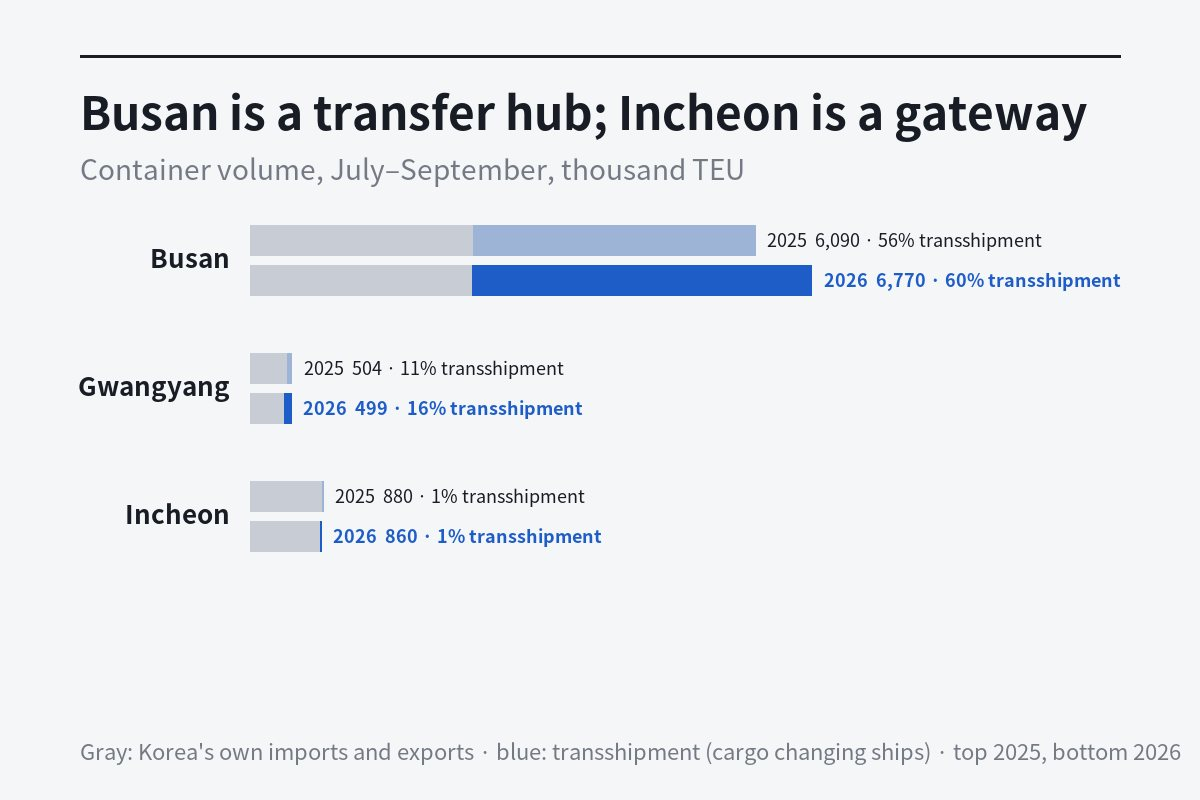
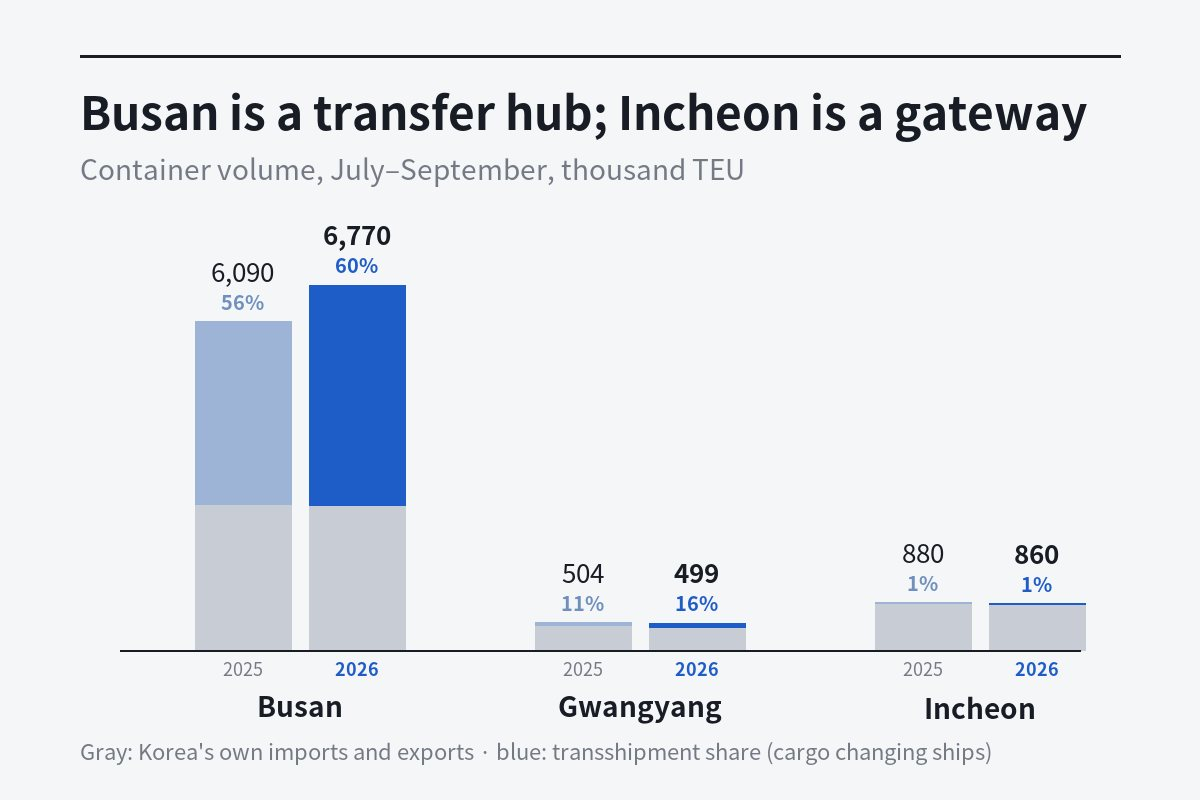
update 2026-11-21

diff --git a/en/news/korea_busan_incheon_hub.html b/en/news/korea_busan_incheon_hub.html
@@ -34,7 +34,7 @@
 <p class="dek">Of the 6.77 million TEU handled at Busan in July–September, 60% was transshipment: other countries&#x27; cargo changing ships. Incheon&#x27;s seaport mostly serves direct routes to nearby Asian ports. And by value, 55.8% of South Korea&#x27;s exports left through airports in the 12 months to October.</p>
 <div class="paper"><div><a class="by" href="../editorial.html">Written by AI</a><span class="pub"><time datetime="2026-11-20">Nov 20, 2026</time></span></div><div class="sharebar sb-top"><span class="sb-more"><button type="button" class="ic" data-more aria-expanded="false" aria-label="Share and report menu" title="More"><svg viewBox="0 0 24 24" width="20" height="20" fill="currentColor" aria-hidden="true"><circle cx="5.5" cy="12" r="1.5"/><circle cx="12" cy="12" r="1.5"/><circle cx="18.5" cy="12" r="1.5"/></svg></button><span class="sb-menu"><button type="button" data-share="native" data-u="https://holtnews.com/en/news/korea_busan_incheon_hub.html" data-t="Busan transshipment jumps 20% in Q3: how South Korea&#x27;s ports divide the work" data-ok="Link copied">Share</button><button type="button" data-share="copy" data-u="https://holtnews.com/en/news/korea_busan_incheon_hub.html" data-ok="Link copied">Copy link</button><a href="mailto:hello@holtnews.com?subject=Error report: Busan transshipment jumps 20% in Q3: how South Korea&#x27;s ports divide the work">Report an error</a></span></span></div></div>
 <aside class="keys" aria-labelledby="keys-h"><h2 id="keys-h">In brief</h2><ul><li>Busan handled 6.77 million TEU in the third quarter of 2026; transshipment rose 20.3% to 4.09 million TEU.</li><li>Transshipment made up just 1.4% of Incheon port&#x27;s 860,000 TEU, while about 99% of loaded containers leaving Korean ports for the US, Germany and Mexico departed from Busan, in customs counts that may include transshipped boxes.</li><li>Airports carried 55.8% of South Korea&#x27;s export value in the 12 months to October 2026, up from 37.6% a year earlier.</li></ul></aside>
-<figure class="photo"><img src="../../img/news/korea_busan_incheon_hub-en.jpg" alt="Stacked horizontal bars titled &#x27;Busan is a transfer hub; Incheon is a gateway&#x27;, July–September container volume in thousand TEU. Busan: 6,090 in 2025 (56% transshipment), 6,770 in 2026 (60%). Gwangyang: 504 (11%) and 499 (16%). Incheon: 880 (1%) and 860 (1%). Gray is Korea&#x27;s own imports and exports, blue is transshipment." width="1200" height="800"><figcaption>Container volume at Busan, Gwangyang and Incheon in July–September, split into Korea&#x27;s own trade and transshipment · Graphic: HOLT NEWS</figcaption></figure>
+<figure class="photo"><img src="../../img/news/korea_busan_incheon_hub-en.jpg" alt="Stacked vertical bars titled &#x27;Busan is a transfer hub; Incheon is a gateway&#x27;, July–September container volume in thousand TEU. Busan: 6,090 in 2025 (56% transshipment), 6,770 in 2026 (60%). Gwangyang: 504 (11%) and 499 (16%). Incheon: 880 (1%) and 860 (1%). Gray is Korea&#x27;s own imports and exports, blue is transshipment." width="1200" height="800"><figcaption>Container volume at Busan, Gwangyang and Incheon in July–September, split into Korea&#x27;s own trade and transshipment · Graphic: HOLT NEWS</figcaption></figure>
 <section class="sec"><h2><span class="n" aria-hidden="true">01</span>An airline hub and a direct stop</h2><p>If you manage freight between third countries and are weighing a routing through South Korea, the first thing to know is that its two big port cities do different jobs. Busan, on the southeast coast and Korea&#x27;s largest port, works like an airline hub: big ships drop off containers so other ships can carry them on. Incheon, the port city west of Seoul that is also home to Korea&#x27;s main international airport, works more like a direct stop for nearby Asian routes. Third-quarter figures from Korea&#x27;s Ministry of Oceans and Fisheries show the split clearly.</p><p>The key is transshipment: cargo that is not imported into Korea but moved from an arriving ship to a departing one. In July–September, Korean ports handled 4.19 million TEU of transshipment, up 20.7% from 3.47 million a year earlier. A TEU, or twenty-foot equivalent unit, is the industry&#x27;s standard measure: one TEU is one 20-foot container. Korea&#x27;s own import and export containers fell 1.1% to 4.34 million TEU. Of 8.58 million TEU handled in total, almost half was transshipment.</p></section><section class="sec"><h2><span class="n" aria-hidden="true">02</span>4.09 million TEU changed ships in Busan</h2><p>Busan handled 6.77 million TEU in the quarter, up 11.2%. Its own import-export volume slipped 0.3% to 2.68 million TEU, while transshipment rose 20.3% from 3.40 million to 4.09 million TEU. That means 60.4% of Busan&#x27;s throughput was transshipment, and Busan accounted for 97.6% of all transshipment in Korea. By partner region, Busan&#x27;s transshipment linked to China rose 25.9%, to the US 19.2% and to Europe 108.4%. The ministry did not publish the European base, so only the growth rate is known.</p><p>The ministry attributed the jump to ships diverting to Busan and to Gwangyang, a port on the south coast west of Busan, while typhoons congested Chinese ports, and to Busan&#x27;s growing role as a hub. Gwangyang&#x27;s transshipment rose 50.2% to about 80,000 TEU. The ministry does not split the increase between the two causes. Busan&#x27;s total container growth peaked in August at 15.4%, against 8.7% in July and 9.8% in September; the ministry did not link the monthly pattern to specific storms.</p></section><section class="sec"><h2><span class="n" aria-hidden="true">03</span>Incheon: a door to nearby ports</h2><p>Incheon is the opposite case. Of its 860,000 TEU in the quarter, transshipment was just 12,000 TEU, or 1.4%. Volume fell 2.1%, which the ministry put down to typhoons in southeastern China delaying ship schedules and causing more vessels to skip Incheon.</p><p>Korea Customs Service counts of loaded containers by departure port and destination, for November 2025 to October 2026, make the pattern sharper. The count may include some boxes transshipped in Korea. Of loaded containers leaving Korean ports for the US, 98.7% departed from Busan, from either Busan New Port, the deep-water terminals west of the city where large ocean ships call, or the older North Port near downtown. The share was 98.7% for Germany, 99.8% for the Netherlands and 99.7% for Mexico. Busan also handles more than half of short-sea traffic, but Incheon took 22.7% of loaded containers leaving Korea for Vietnam, 24.4% for Hong Kong and 17.6% for China, and received 29.2% of those arriving from Vietnam.</p></section><section class="sec"><h2><span class="n" aria-hidden="true">04</span>By value, the airport is the bigger road</h2><p>Counting boxes and counting dollars tell different stories, and transshipped cargo is not counted in Korea&#x27;s export value at all. By our calculation from customs data by port, 55.8% of Korea&#x27;s export value left through airports in the 12 months to October 2026, up from 37.6% a year earlier. In October alone, Incheon International Airport by itself shipped $72.3 billion of Korea&#x27;s $115.4 billion in exports, or 62.6%. Busan&#x27;s two port areas together shipped 15.2%.</p><p>In the same month, semiconductor exports rose by $40.8 billion from a year earlier, to $56.7 billion from $15.9 billion, while airport exports rose by $47.6 billion, to $72.4 billion from $24.8 billion. The chip figure comes from the customs service&#x27;s preliminary product data, and the port data do not show what was on each shipment, so we cannot say how much of the airport increase was chips. Exports shipped by sea and other non-airport routes grew 23.9%, from $34.7 billion to $43.0 billion. In short, Busan is big by box count; airports are big by value.</p></section><section class="sec"><h2><span class="n" aria-hidden="true">05</span>Who earns, and which rules apply</h2><figure class="photo"><img src="../../img/news/korea_busan_incheon_hub-b-en.jpg" alt="Line chart titled &#x27;Most of Korea&#x27;s export value now flies&#x27;. The airport share was 37% in November 2024, moved between about 32% and 45% through 2025, then rose to 52% in February 2026, 59% in June and 63% in September and October." loading="lazy" width="1200" height="800"><figcaption>Share of South Korea&#x27;s monthly export value shipped through all airports, November 2024 to October 2026. Calculated from Korea Customs Service data by port of export. · Graphic and calculation: HOLT NEWS</figcaption></figure><p>Transshipped cargo is not a Korean import. Korea&#x27;s Customs Act defines transshipment as moving goods from an arriving vessel or aircraft to a departing one within the same customs district (Article 2), and levies duty on imported goods (Article 14). Transshipped boxes must in principle be reported to customs and checked (Article 141), but they pay no Korean duty. The revenue goes instead to terminal handling and port fees in Busan, and to the carriers that route cargo through it.</p><p>The rule shippers most need to know is origin. Under US country-of-origin marking rules (19 CFR 134.1(b)), another country becomes the country of origin only if the goods undergo a &#x27;substantial transformation&#x27; there. Changing ships is not a transformation, so goods made in China that pass through Busan are still Chinese-origin goods. Routing through Busan can help cargo avoid congested ports; it does not change the country of origin.</p></section><section class="sec"><h2><span class="n" aria-hidden="true">06</span>Where Korea fits, and what to watch</h2><p>Put together, Korea offers three distinct routes: Busan for ocean cargo changing ships, Incheon port for direct short-sea links across Asia, and the airports, mostly Incheon, which now carry more than half of Korea&#x27;s export value. For third-country cargo that needs to change ships, Busan is where nearly all of it happens, handling 97.6% of the country&#x27;s transshipment. Fourth-quarter figures will show whether the jump holds once the typhoon effect the ministry cited has passed. Freight-rate trends by route are on our Korea Trade freight page. Korea&#x27;s next preliminary trade figures, for Nov. 1–20, come out at 9 a.m. Korean time on Monday, Nov. 23 (7 p.m. Sunday in New York).</p></section>
 
 

diff --git a/news/korea_busan_incheon_hub.html b/news/korea_busan_incheon_hub.html
@@ -34,7 +34,7 @@
 <p class="dek">올해 7~9월 부산항이 처리한 컨테이너 677만 TEU 가운데 60%는 다른 나라 화물이 배를 갈아탄 환적이었어요. 인천항은 환적이 1%대인 근거리 항로 관문이고, 수출 금액으로는 최근 12개월 55.8%가 공항으로 나갔어요.</p>
 <div class="paper"><div><a class="by" href="../editorial.html">AI가 썼어요</a><span class="pub"><time datetime="2026-11-20">2026.11.20</time></span></div><div class="sharebar sb-top"><span class="sb-more"><button type="button" class="ic" data-more aria-expanded="false" aria-label="공유·오류 제보 메뉴" title="더 보기"><svg viewBox="0 0 24 24" width="20" height="20" fill="currentColor" aria-hidden="true"><circle cx="5.5" cy="12" r="1.5"/><circle cx="12" cy="12" r="1.5"/><circle cx="18.5" cy="12" r="1.5"/></svg></button><span class="sb-menu"><button type="button" data-share="native" data-u="https://holtnews.com/news/korea_busan_incheon_hub.html" data-t="3분기 부산항 처리량, 열에 여섯은 갈아탄 짐" data-ok="링크를 복사했어요">공유하기</button><button type="button" data-share="copy" data-u="https://holtnews.com/news/korea_busan_incheon_hub.html" data-ok="링크를 복사했어요">링크 복사</button><a href="mailto:hello@holtnews.com?subject=오류 제보: 3분기 부산항 처리량, 열에 여섯은 갈아탄 짐">오류 제보</a></span></span></div></div>
 <aside class="keys" aria-labelledby="keys-h"><h2 id="keys-h">요약</h2><ul><li>2026년 3분기 부산항은 컨테이너 677만 TEU를 처리했고, 그 가운데 환적이 409만 TEU로 1년 전보다 20.3% 늘었어요.</li><li>인천항 3분기 물동량 86만 TEU 가운데 환적은 1만 2천 TEU로 1.4%&#8288;였고, 한국 항구에서 미국과 독일, 멕시코로 떠난 짐 찬 컨테이너는 99% 안팎이 부산에서 출발했어요. 환적 화물이 섞였을 수 있는 관세청 집계예요.</li><li>2025년 11월부터 2026년 10월까지 한국 수출 금액의 55.8%&#8288;가 공항으로 나갔고, 1년 전 같은 기간엔 37.6%&#8288;였어요.</li></ul></aside>
-<figure class="photo"><img src="../img/news/korea_busan_incheon_hub.jpg" alt="가로 누적 막대 그림. 제목은 &#x27;부산은 갈아타는 항구, 인천은 오가는 항구&#x27;. 단위는 만 TEU, 3분기. 부산항 2025년 합계 609(환적 56%), 2026년 677(환적 60%). 광양항 2025년 50(환적 11%), 2026년 50(환적 16%). 인천항 2025년 88(환적 1%), 2026년 86(환적 1%). 회색은 수출입, 파랑은 환적." width="1200" height="800"><figcaption>부산·광양·인천항 3분기 컨테이너 물동량, 수출입과 환적 · 그림: HOLT NEWS</figcaption></figure>
+<figure class="photo"><img src="../img/news/korea_busan_incheon_hub.jpg" alt="세로 누적 막대 그림. 제목은 &#x27;부산은 갈아타는 항구, 인천은 오가는 항구&#x27;. 단위는 만 TEU, 3분기. 부산항 2025년 합계 609(환적 56%), 2026년 677(환적 60%). 광양항 2025년 50(환적 11%), 2026년 50(환적 16%). 인천항 2025년 88(환적 1%), 2026년 86(환적 1%). 회색은 수출입, 파랑은 환적." width="1200" height="800"><figcaption>부산·광양·인천항 3분기 컨테이너 물동량, 수출입과 환적 · 그림: HOLT NEWS</figcaption></figure>
 <section class="sec"><h2><span class="n" aria-hidden="true">01</span>부산은 환승역, 인천은 직행 정류장</h2><p>한국을 거치는 길을 따져 보는 제3국 무역 관리자에게 부산과 인천은 하는 일이 달라요. 한마디로 부산은 큰 배끼리 화물을 넘겨주는 환승역이고, 인천항은 가까운 나라와 바로 오가는 직행 정류장이에요. 해양수산부의 2026년 3분기 항만 물동량 자료가 이 차이를 숫자로 보여 줘요.</p><p>열쇠는 환적, 곧 한국에 수입하지 않고 들어온 배에서 나가는 배로 옮겨 싣는 화물이에요. 7~9월 전국 항만의 환적은 419만 TEU로 1년 전 347만 TEU보다 20.7% 늘었어요. TEU는 20피트 컨테이너 한 개를 하나로 세는 단위예요. 한국이 직접 사고판 수출입 컨테이너는 434만 TEU로 1.1% 줄었어요. 전체 처리량 858만 TEU 가운데 거의 절반이 환적이었던 거예요.</p></section><section class="sec"><h2><span class="n" aria-hidden="true">02</span>석 달 동안 부산에서 갈아탄 409만 TEU</h2><p>부산항은 3분기에 677만 TEU를 처리해 11.2% 늘었어요. 수출입은 268만 TEU로 0.3% 줄었고, 환적이 340만 TEU에서 409만 TEU로 20.3% 늘었어요. 부산항 처리량 열에 여섯이 환적(60.4%)이고, 전국 환적의 97.6%가 부산에서 일어났어요. 부산 환적을 상대 지역별로 보면 중국이 25.9%, 미국이 19.2%, 유럽이 108.4% 늘었어요. 유럽은 원래 양이 자료에 없어 늘어난 비율만 알 수 있어요.</p><p>해수부는 태풍으로 중국 항만이 붐비자 대신 부산항과 광양항에 들르는 배가 늘었고, 부산항 허브화도 원인이라고 설명했어요. 광양항 환적도 8만 TEU로 50.2% 늘었어요. 두 이유가 각각 얼마인지 해수부 자료는 나눠 보여 주지 않아요. 부산항 전체 컨테이너 증가율은 7월 8.7%, 8월 15.4%, 9월 9.8%로 8월이 가장 컸어요.</p></section><section class="sec"><h2><span class="n" aria-hidden="true">03</span>인천항은 가까운 나라를 잇는 문</h2><p>인천항은 정반대예요. 3분기 86만 TEU 가운데 환적은 1만 2천 TEU로 1.4%였어요. 물동량은 2.1% 줄었는데, 해수부는 중국 남동부 태풍으로 배 일정이 밀려 인천에 들르지 않은 배가 늘었기 때문이라고 했어요.</p><p>관세청 나라별 출항, 입항 자료로 2025년 11월부터 2026년 10월까지 짐 찬 컨테이너를 계산해 보면 길이 더 분명해요. 이 집계엔 부산에서 갈아탄 환적 화물도 섞여 있을 수 있어요. 한국 항구에서 미국으로 떠난 컨테이너의 98.7%, 독일행 98.7%, 네덜란드행 99.8%, 멕시코행 99.7%가 부산신항과 부산항에서 출발했어요. 가까운 항로도 부산이 절반 넘게 맡지만, 인천항이 베트남행의 22.7%, 홍콩행의 24.4%, 중국행의 17.6%를 나눠 맡았어요. 베트남에서 온 컨테이너는 29.2%가 인천항으로 들어왔어요.</p></section><section class="sec"><h2><span class="n" aria-hidden="true">04</span>금액으로 보면 큰 길은 공항</h2><p>컨테이너 개수와 돈은 다른 그림을 보여 줘요. 환적 화물은 한국 수출이 아니어서 금액에는 잡히지 않아요. 관세청 항구·공항별 자료로 계산하면 최근 12개월 한국 수출 금액의 55.8%가 공항으로 나갔어요. 1년 전 같은 기간엔 37.6%였어요. 2026년 10월 한 달만 보면 수출 1,154억 달러 가운데 인천국제공항 한 곳이 723억 달러(62.6%)이고, 부산항과 부산신항을 합친 몫은 15.2%예요.</p><p>같은 10월 반도체 수출은 1년 전 159억 달러에서 567억 달러로 408억 달러 늘었고, 공항 수출은 248억 달러에서 724억 달러로 476억 달러 늘었어요. 반도체 숫자는 품목별 잠정치이고 항구별 자료엔 품목이 없어, 반도체가 어느 길로 나갔는지는 이 자료로 확인되지 않아요. 공항 밖으로 나간 수출은 같은 기간 347억 달러에서 430억 달러로 23.9% 늘었어요. 결국 개수로는 부산이, 금액으로는 공항이 큰 길인 거예요.</p></section><section class="sec"><h2><span class="n" aria-hidden="true">05</span>누가 벌고, 어떤 규칙이 걸리나</h2><figure class="photo"><img src="../img/news/korea_busan_incheon_hub-b.jpg" alt="꺾은선 그림. 제목은 &#x27;한국 수출, 절반 넘게 비행기로&#x27;. 2024년 11월 37%에서 2025년엔 30%대 초반~40%대 중반을 오가다 2026년 2월 52%, 6월 59%, 9월 63%, 10월 63%." loading="lazy" width="1200" height="800"><figcaption>한국 수출 금액 가운데 공항 전체로 나간 몫, 2024년 11월~2026년 10월 달마다. 관세청 항구·공항별 수출입 자료로 계산했어요. · 그림: HOLT NEWS · 계산: HOLT NEWS</figcaption></figure><p>환적은 한국에 수입되는 물건이 아니에요. 관세법 제2조는 환적을 같은 세관 구역에서 들어온 운송수단의 물품을 나가는 운송수단으로 옮겨 싣는 일로 정하고, 관세는 수입물품에 매겨요(제14조). 그래서 환적 화물은 원칙적으로 세관에 신고하고 확인을 받지만(제141조) 한국 관세를 내지 않아요. 이 화물로 주로 돈을 버는 쪽은 짐을 내리고 싣는 부산의 터미널 운영사와 항만, 그리고 노선을 짜는 선사예요.</p><p>화주가 꼭 알아야 할 제도는 원산지예요. 미국 원산지 표시 규정(19 CFR 134.1)은 다른 나라에서 &#x27;실질적 변형&#x27;을 거쳐야 그 나라가 원산지가 된다고 정해요. 배만 갈아타는 건 변형이 아니어서, 중국에서 만든 물건은 부산을 거쳐도 중국산이에요. 부산 경유는 항만이 막힐 때 길을 바꾸는 수단일 뿐, 원산지를 바꾸는 수단이 아니에요.</p></section><section class="sec"><h2><span class="n" aria-hidden="true">06</span>한국 항구의 자리, 다음에 볼 것</h2><p>정리하면 한국 길은 셋으로 나뉘어요. 원양 화물이 갈아타는 부산, 가까운 아시아와 직접 잇는 인천항, 수출 금액의 절반 넘게 나가는 공항, 그 대부분인 인천공항이에요. 제3국 화물이 갈아타는 곳은 사실상 부산이고, 해수부가 원인으로 든 태풍이 지나간 뒤에도 늘어난 환적이 이어지는지는 4분기 숫자로 봐야 해요. 나라별 운임 흐름은 Korea Trade 운임 칸에서 볼 수 있어요. 다음 수출입 잠정치(11월 1~20일)는 11월 23일 월요일 오전 9시에 나와요.</p></section>
 
 

diff --git a/en/history-debates.html b/en/history-debates.html
@@ -28,7 +28,7 @@
 <div class="page hist" id="top"><h1>How HOLT NEWS Was Made</h1>
 <p class="hist-lead">HOLT NEWS was built by one person and an AI, talking. It started on the evening of October 18, 2026, with a single question: “Can you make Shorts?” An Instagram account came first. This site opened three weeks later.</p>
 <p class="hist-lead">Below is what we decided, where we clashed, and what we got wrong. Some big moments carry the conversation as it happened, translated from Korean. Times are Korea time (KST). We do not name the person.</p>
-<p class="hist-stat">36 days of conversation · 11,266 messages · 1,688 code commits · as of 2026-11-21</p>
+<p class="hist-stat">36 days of conversation · 11,301 messages · 1,698 code commits · as of 2026-11-21</p>
 <nav class="htab"><a href="history.html">Timeline</a><a href="history-debates.html" class="on" aria-current="page">Debates</a><a href="history-fix.html">Corrections</a></nav>
 <p class="hist-lead">The moments where the person and the AI pushed against each other, with the conversation that went back and forth. ChatGPT reviews were brought in and pasted by the person.</p>
 <nav class="dmenu"><p class="dm-era">The social media days</p><ul><li><a href="#v-ads_sns">Can social media make money?</a></li><li><a href="#v-who_picks">Whose picks did better?</a></li><li><a href="#v-seven_six">Seven hours or six?</a></li></ul><p class="dm-era">The website days</p><ul><li><a href="#v-ads">Ads, and what this site is for</a></li><li><a href="#v-mouse">Should the headline say it was mice?</a></li><li><a href="#v-ai_disclosure">Should we say an AI makes it?</a></li><li><a href="#v-good_box">The “we are good” box</a></li><li><a href="#v-seven_six_site">Fixing the seven-hour headline on the site</a></li><li><a href="#v-google_eyes">Do we have to tiptoe around Google?</a></li></ul></nav>

diff --git a/history-debates.html b/history-debates.html
@@ -27,7 +27,7 @@
 <main id="main" tabindex="-1">
 <div class="page hist" id="top"><h1>홀트뉴스가 만들어진 기록</h1>
 <p class="hist-lead">홀트뉴스는 한 사람과 AI가 대화로 만들었습니다. 2026년 10월 18일 저녁, &quot;너가 쇼츠를 만들 수 있어?&quot;라는 질문에서 시작했습니다. 인스타그램 계정이 먼저 생겼고, 3주 뒤 이 사이트가 열렸습니다.</p>
-<p class="hist-stat">대화 36일 · 메시지 11,266개 · 코드 커밋 1,688개 · 2026-11-21 기준</p>
+<p class="hist-stat">대화 36일 · 메시지 11,301개 · 코드 커밋 1,698개 · 2026-11-21 기준</p>
 <nav class="htab"><a href="history.html">연표</a><a href="history-debates.html" class="on" aria-current="page">논쟁</a><a href="history-fix.html">바로잡은 것</a></nav>
 <p class="hist-lead">사람과 AI가 부딪친 대목입니다. 그때 오간 대화를 옮겼습니다. ChatGPT 평가는 사람이 받아 와 붙여 넣은 것입니다.</p>
 <nav class="dmenu"><p class="dm-era">SNS 시절</p><ul><li><a href="#v-ads_sns">SNS로 돈을 벌 수 있나</a></li><li><a href="#v-who_picks">누가 고른 게 더 잘 나왔나</a></li><li><a href="#v-seven_six">7시간이냐 6시간이냐</a></li></ul><p class="dm-era">웹사이트 시절</p><ul><li><a href="#v-ads">광고, 그리고 이 사이트는 무엇인가</a></li><li><a href="#v-mouse">쥐 실험이라고 제목에 밝힐까</a></li><li><a href="#v-ai_disclosure">AI가 만든다는 걸 밝힐까</a></li><li><a href="#v-good_box">&#x27;나는 착해요&#x27; 상자</a></li><li><a href="#v-seven_six_site">사이트에서 바로잡은 7시간 제목</a></li><li><a href="#v-google_eyes">구글 눈치를 봐야 하나</a></li></ul></nav>

diff --git a/en/history-fix.html b/en/history-fix.html
@@ -28,7 +28,7 @@
 <div class="page hist" id="top"><h1>How HOLT NEWS Was Made</h1>
 <p class="hist-lead">HOLT NEWS was built by one person and an AI, talking. It started on the evening of October 18, 2026, with a single question: “Can you make Shorts?” An Instagram account came first. This site opened three weeks later.</p>
 <p class="hist-lead">Below is what we decided, where we clashed, and what we got wrong. Some big moments carry the conversation as it happened, translated from Korean. Times are Korea time (KST). We do not name the person.</p>
-<p class="hist-stat">36 days of conversation · 11,266 messages · 1,688 code commits · as of 2026-11-21</p>
+<p class="hist-stat">36 days of conversation · 11,301 messages · 1,698 code commits · as of 2026-11-21</p>
 <nav class="htab"><a href="history.html">Timeline</a><a href="history-debates.html">Debates</a><a href="history-fix.html" class="on" aria-current="page">Corrections</a></nav>
 <p class="hist-lead">Stories we fixed after publishing because a fact, number or subject was wrong. Typos and wording tweaks are not listed. The same notes appear in each story’s Correction box.</p>
 <p class="vs-score"><span>Stories fixed <b>28</b></span><span>Days with fixes <b>7</b></span></p>

diff --git a/history.html b/history.html
@@ -27,7 +27,7 @@
 <main id="main" tabindex="-1">
 <div class="page hist" id="top"><h1>홀트뉴스가 만들어진 기록</h1>
 <p class="hist-lead">홀트뉴스는 한 사람과 AI가 대화로 만들었습니다. 2026년 10월 18일 저녁, &quot;너가 쇼츠를 만들 수 있어?&quot;라는 질문에서 시작했습니다. 인스타그램 계정이 먼저 생겼고, 3주 뒤 이 사이트가 열렸습니다.</p>
-<p class="hist-stat">대화 36일 · 메시지 11,266개 · 코드 커밋 1,688개 · 2026-11-21 기준</p>
+<p class="hist-stat">대화 36일 · 메시지 11,301개 · 코드 커밋 1,698개 · 2026-11-21 기준</p>
 <nav class="htab"><a href="history.html" class="on" aria-current="page">연표</a><a href="history-debates.html">논쟁</a><a href="history-fix.html">바로잡은 것</a></nav>
 <p class="hist-lead">무엇을 정했고, 어디서 부딪쳤고, 무엇이 틀렸는지 적었습니다. 굵직한 순간에는 그때 오간 대화를 붙였습니다. 대화에서 흰 말풍선이 AI, 검은 말풍선이 사람입니다. 크게 부딪친 대목은 논쟁 메뉴에서 볼 수 있습니다. 시각은 한국 시간입니다. 그 사람의 이름은 적지 않습니다.</p>
 <div class="ctl">

diff --git a/history-fix.html b/history-fix.html
@@ -27,7 +27,7 @@
 <main id="main" tabindex="-1">
 <div class="page hist" id="top"><h1>홀트뉴스가 만들어진 기록</h1>
 <p class="hist-lead">홀트뉴스는 한 사람과 AI가 대화로 만들었습니다. 2026년 10월 18일 저녁, &quot;너가 쇼츠를 만들 수 있어?&quot;라는 질문에서 시작했습니다. 인스타그램 계정이 먼저 생겼고, 3주 뒤 이 사이트가 열렸습니다.</p>
-<p class="hist-stat">대화 36일 · 메시지 11,266개 · 코드 커밋 1,688개 · 2026-11-21 기준</p>
+<p class="hist-stat">대화 36일 · 메시지 11,301개 · 코드 커밋 1,698개 · 2026-11-21 기준</p>
 <nav class="htab"><a href="history.html">연표</a><a href="history-debates.html">논쟁</a><a href="history-fix.html" class="on" aria-current="page">바로잡은 것</a></nav>
 <p class="hist-lead">발행한 뒤 사실·숫자·대상이 틀린 걸 찾아 고친 기록입니다. 오탈자나 표현 다듬기는 넣지 않았습니다. 같은 내용이 각 글 끝 &#x27;바로잡습니다&#x27; 칸에도 있습니다.</p>
 <p class="vs-score"><span>고친 글 <b>28</b></span><span>바로잡은 날 <b>7</b></span></p>

diff --git a/en/history.html b/en/history.html
@@ -28,7 +28,7 @@
 <div class="page hist" id="top"><h1>How HOLT NEWS Was Made</h1>
 <p class="hist-lead">HOLT NEWS was built by one person and an AI, talking. It started on the evening of October 18, 2026, with a single question: “Can you make Shorts?” An Instagram account came first. This site opened three weeks later.</p>
 <p class="hist-lead">Below is what we decided, where we clashed, and what we got wrong. Some big moments carry the conversation as it happened, translated from Korean. Times are Korea time (KST). We do not name the person.</p>
-<p class="hist-stat">36 days of conversation · 11,266 messages · 1,688 code commits · as of 2026-11-21</p>
+<p class="hist-stat">36 days of conversation · 11,301 messages · 1,698 code commits · as of 2026-11-21</p>
 <nav class="htab"><a href="history.html" class="on" aria-current="page">Timeline</a><a href="history-debates.html">Debates</a><a href="history-fix.html">Corrections</a></nav>
 <p class="hist-lead">In the conversations, white bubbles are the AI and black bubbles are the person. The biggest clashes have their own Debates tab.</p>
 <div class="ctl">
